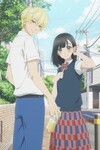
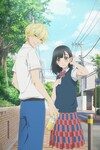
[covers] updated Honey Lemon Soda 55a8eeffac073defe5fab7ec160afffed83688a1

diff --git a/readme.md b/readme.md
@@ -1,6 +1,6 @@
 # daiku-alternatives
 
-last updated at: `January 25, 2025 11:39 UTC`
+last updated at: `January 25, 2025 13:05 UTC`
 
 total anilist overrides count: `36`
 
@@ -254,8 +254,12 @@ else the title was too long 💀
   * `medium`: [anilist/175443/medium.jpg](anilist/175443/medium.jpg)
 * change note:
 ```
-edited version (by me) of the third key visual to remove text
-waiting for more files to do a cleaner job
+edited clean version (by me) of the third key visual to remove text and visual annoyances
+
+images come from:
+* international crunchyroll cover (crunchyroll cdn)
+* japanese cover w/title wo/infos (from https://www.themoviedb.org/u/takenokoshi on tmdb)
+* anime blu-ray preorder cover (jp amazon - https://www.amazon.co.jp/%E3%83%8F%E3%83%8B%E3%83%BC%E3%83%AC%E3%83%A2%E3%83%B3%E3%82%BD%E3%83%BC%E3%83%80-Blu-ray-BOX-Blu-ray-%E5%B8%82%E3%83%8E%E7%80%AC%E5%8A%A0%E9%82%A3/dp/B0DR7Y4J7G)
 ```
 
 ### 181444 - as `The Fragrant Flower Blooms With Dignity`
